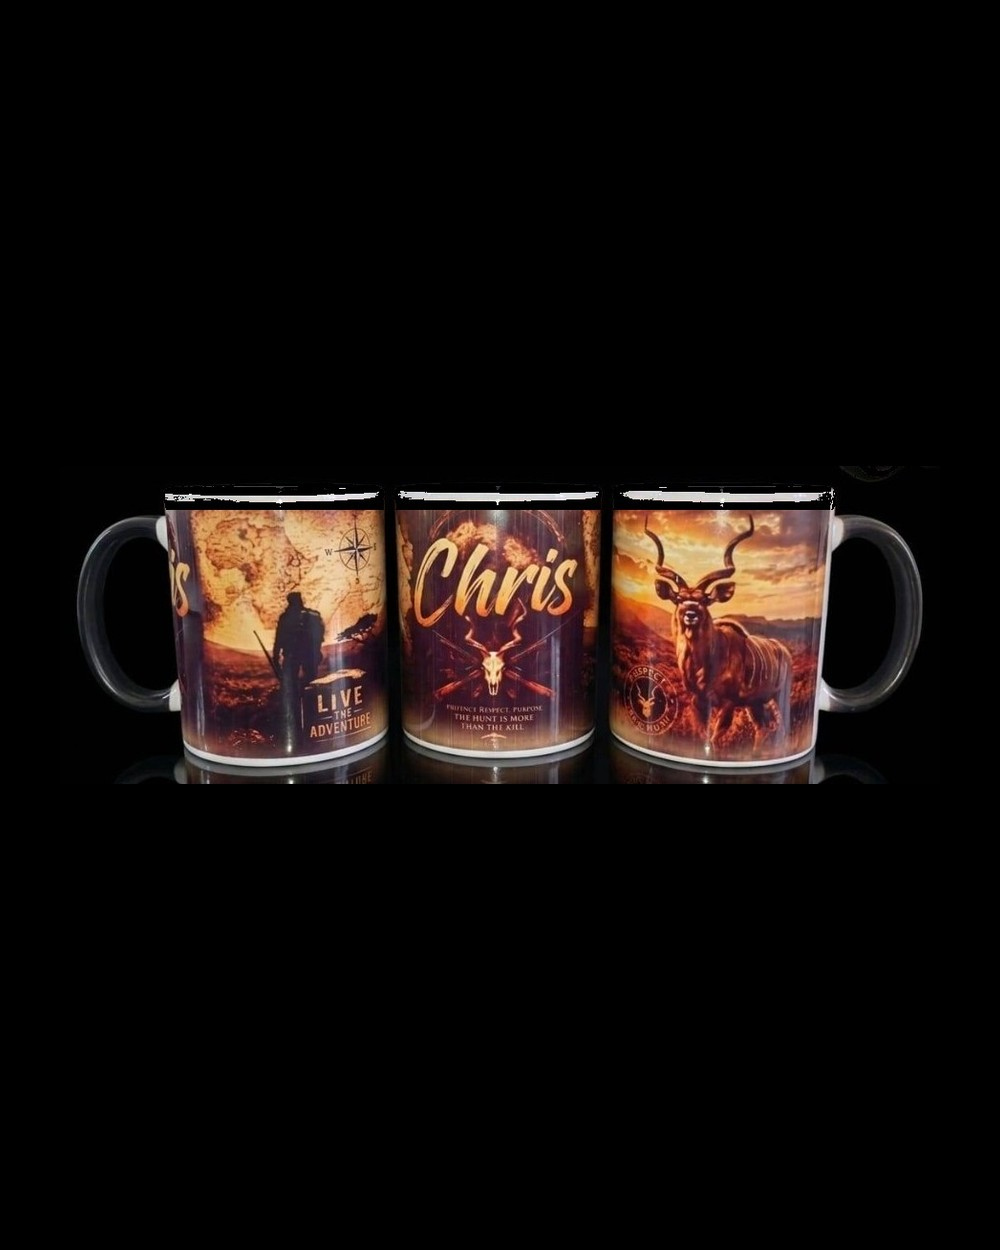
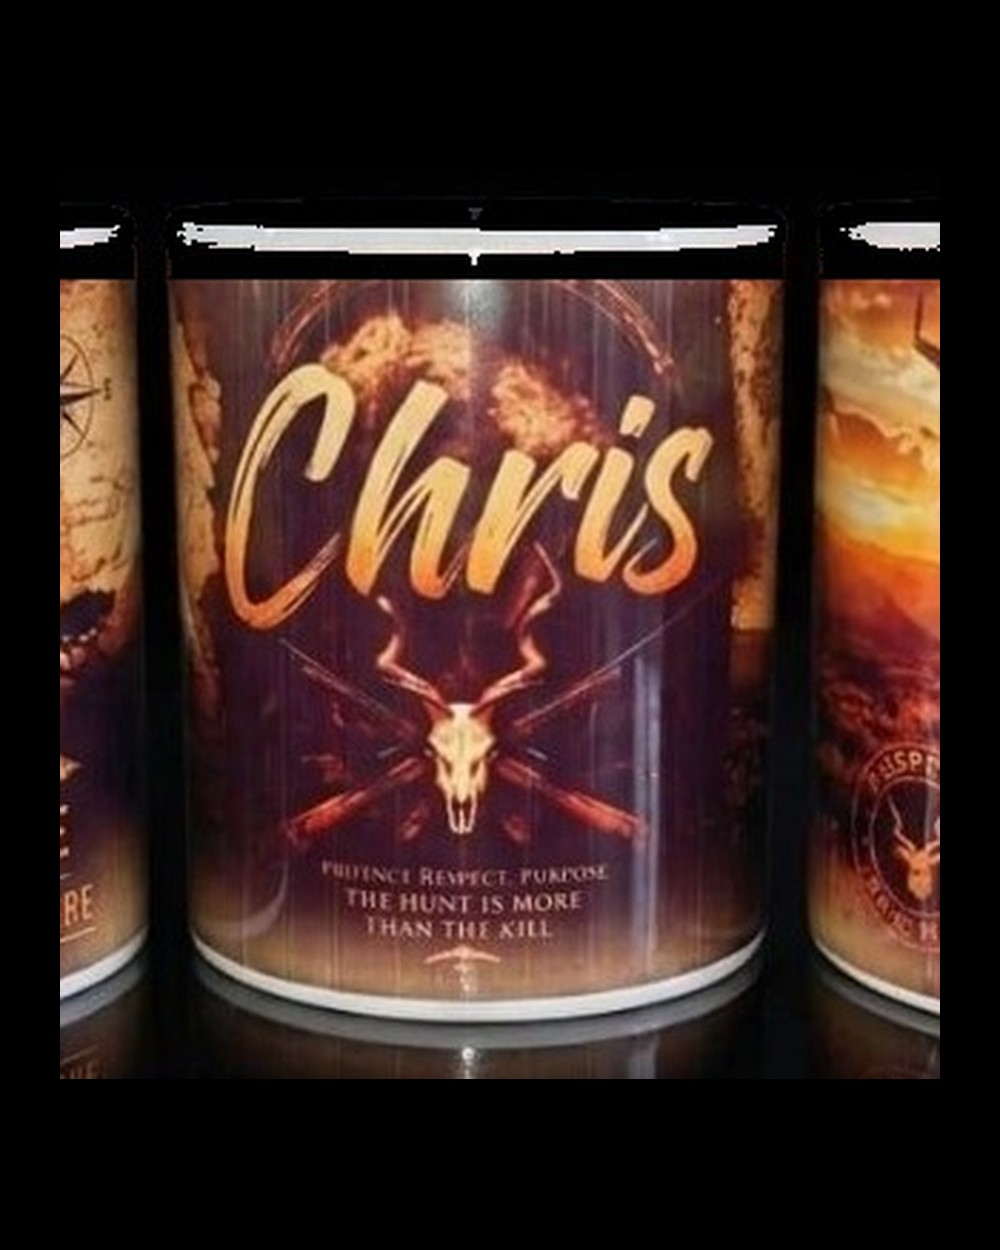
Reframe coffee mug photos to fill the product frame
Wide multi-mug marketing crops were normalized to thin horizontal strips
on the 4:5 shop canvas. Re-crop from the original catalogue sources to a
single mug view, trim reflections and scan-line noise, then re-normalize.

Add scripts/reframe-coffee-mugs.py for regeneration. Mug+coaster set
photos are left unchanged.

diff --git a/scripts/reframe-coffee-mugs.py b/scripts/reframe-coffee-mugs.py
@@ -1,0 +1,243 @@
+"""Reframe coffee mug photos so mugs fill the shop canvas instead of thin strips."""
+
+from __future__ import annotations
+
+import subprocess
+from io import BytesIO
+from pathlib import Path
+
+from PIL import Image
+
+ROOT = Path(__file__).resolve().parents[1] / "public" / "products" / "coffee-mugs"
+SOURCE_COMMIT = "a2fe798"
+CANVAS = (1000, 1250)
+MARGIN = 0.06
+INK = 28
+MIN_PAD = 20
+
+# Mug+coaster set photos are already tall enough — only reframe the wide mug rows.
+SKIP = {
+    "chris-adventure-set.jpg",
+    "gideon-mug-coaster.jpg",
+    "hannie-mug-coaster.jpg",
+    "landie-mug-coaster.jpg",
+}
+
+# Prefer a specific third of wide marketing crops (0=left, 1=centre, 2=right).
+PREFERRED_THIRD: dict[str, int] = {
+    "worthy-bow-mugs.jpg": 2,  # "She is Worthy" text
+    "juf-anneke-mugs.jpg": 0,  # "Juf Anneke" name
+    "kobus-mugs.jpg": 1,
+    "manzelle-mugs.jpg": 1,
+    "secret-mike-mugs.jpg": 1,
+    "apex-wellness-mugs.jpg": 1,
+    "chris-hunt-mugs.jpg": 1,
+}
+
+
+def is_ink(pixel: tuple[int, int, int]) -> bool:
+    return pixel[0] <= INK and pixel[1] <= INK and pixel[2] <= INK
+
+
+def git_source(name: str) -> Image.Image:
+    result = subprocess.run(
+        ["git", "show", f"{SOURCE_COMMIT}:public/products/coffee-mugs/{name}"],
+        capture_output=True,
+        check=True,
+    )
+    return Image.open(BytesIO(result.stdout)).convert("RGB")
+
+
+def mug_row_box(image: Image.Image) -> tuple[int, int, int, int]:
+    """Find the main horizontal mug band, ignoring noisy top rows and reflections."""
+    width, height = image.size
+    pixels = image.load()
+    min_run = max(80, int(width * 0.12))
+    rows: list[tuple[int, int, int]] = []
+
+    for y in range(int(height * 0.05), int(height * 0.92)):
+        run = best = 0
+        start = best_start = best_end = 0
+        for x in range(int(width * 0.02), int(width * 0.98)):
+            pixel = pixels[x, y]
+            if not is_ink(pixel):
+                if run == 0:
+                    start = x
+                run += 1
+                if run > best:
+                    best = run
+                    best_start = start
+                    best_end = x
+            else:
+                run = 0
+        if best < min_run:
+            continue
+        # Ignore isolated logo / smoke rows near the top corners.
+        if y < height * 0.35 and (best_end < width * 0.34 or best_start > width * 0.66):
+            continue
+        rows.append((y, best_start, best_end))
+
+    if not rows:
+        raise RuntimeError("No mug row detected")
+
+    left = min(row[1] for row in rows)
+    right = max(row[2] for row in rows)
+    top = rows[0][0]
+    bottom = rows[-1][0]
+
+    pad = MIN_PAD
+    return (
+        max(0, left - pad),
+        max(0, top - pad),
+        min(width, right + pad + 1),
+        min(height, bottom + pad + 1),
+    )
+
+
+def trim_reflection(image: Image.Image, box: tuple[int, int, int, int]) -> tuple[int, int, int, int]:
+    """Drop the mirror reflection under a mug on glossy black."""
+    left, top, right, bottom = box
+    pixels = image.load()
+    widths: list[tuple[int, int]] = []
+    for y in range(top, bottom + 1):
+        run = 0
+        for x in range(left, right + 1):
+            if not is_ink(pixels[x, y]):
+                run += 1
+        widths.append((y, run))
+
+    if len(widths) < 8:
+        return box
+
+    body_width = sorted(width for _, width in widths[: len(widths) // 2])[
+        len(widths) // 4
+    ]
+    cutoff = bottom
+    for y, row_width in widths:
+        if y > top + 40 and row_width > body_width * 1.45:
+            cutoff = max(top + 20, y - 8)
+            break
+
+    return left, top, right, min(bottom, cutoff)
+
+
+def trim_glitch_top(image: Image.Image, box: tuple[int, int, int, int]) -> tuple[int, int, int, int]:
+    """Drop corrupted scan-line noise above the mug (homosapien source)."""
+    left, top, right, bottom = box
+    pixels = image.load()
+    clean_top = top
+    target_width = int((right - left) * 0.45)
+    for y in range(top, min(top + 80, bottom)):
+        row = [x for x in range(left, right + 1) if not is_ink(pixels[x, y])]
+        if len(row) >= target_width:
+            clean_top = max(top, y - 6)
+            break
+        clean_top = y + 1
+    return left, clean_top, right, bottom
+
+
+def trim_horizontal_padding(
+    image: Image.Image, box: tuple[int, int, int, int]
+) -> tuple[int, int, int, int]:
+    """Remove dead black columns inside a mug crop."""
+    left, top, right, bottom = box
+    pixels = image.load()
+    active: list[int] = []
+    y0 = top + (bottom - top) // 6
+    y1 = bottom - (bottom - top) // 8
+    for x in range(left, right + 1):
+        count = sum(1 for y in range(y0, y1 + 1) if not is_ink(pixels[x, y]))
+        if count > (y1 - y0 + 1) * 0.08:
+            active.append(x)
+    if not active:
+        return box
+    pad = 10
+    return (
+        max(0, active[0] - pad),
+        top,
+        min(image.size[0], active[-1] + pad + 1),
+        bottom,
+    )
+
+
+def pick_single_mug(image: Image.Image, box: tuple[int, int, int, int], third: int) -> tuple[int, int, int, int]:
+    left, top, right, bottom = box
+    crop_w = right - left
+    crop_h = bottom - top
+    if crop_w / max(crop_h, 1) < 1.55:
+        return box
+
+    third_w = crop_w // 3
+    idx = max(0, min(2, third))
+    mug_left = left + idx * third_w
+    mug_right = mug_left + third_w if idx < 2 else right
+    return mug_left, top, mug_right, bottom
+
+
+def normalize(image: Image.Image) -> Image.Image:
+    width, height = image.size
+    pixels = image.load()
+    min_x, min_y, max_x, max_y = width, height, 0, 0
+    for y in range(height):
+        for x in range(width):
+            if is_ink(pixels[x, y]):
+                continue
+            min_x = min(min_x, x)
+            min_y = min(min_y, y)
+            max_x = max(max_x, x)
+            max_y = max(max_y, y)
+    pad = max(MIN_PAD, int(max(width, height) * 0.04))
+    cropped = image.crop(
+        (
+            max(0, min_x - pad),
+            max(0, min_y - pad),
+            min(width, max_x + pad + 1),
+            min(height, max_y + pad + 1),
+        )
+    )
+    if cropped.height < 180:
+        raise RuntimeError(f"Content too short ({cropped.height}px)")
+
+    canvas = Image.new("RGB", CANVAS, (0, 0, 0))
+    max_w = int(CANVAS[0] * (1 - MARGIN * 2))
+    max_h = int(CANVAS[1] * (1 - MARGIN * 2))
+    scale = min(max_w / cropped.width, max_h / cropped.height)
+    resized = cropped.resize(
+        (max(1, int(cropped.width * scale)), max(1, int(cropped.height * scale))),
+        Image.Resampling.LANCZOS,
+    )
+    offset = ((CANVAS[0] - resized.width) // 2, (CANVAS[1] - resized.height) // 2)
+    canvas.paste(resized, offset)
+    return canvas
+
+
+def reframe(name: str) -> Image.Image:
+    source = git_source(name)
+    box = mug_row_box(source)
+    if name == "homosapien-mug.jpg":
+        box = trim_glitch_top(source, box)
+        left, top, right, bottom = box
+        box = (left, top, right, min(bottom, 238))
+    third = PREFERRED_THIRD.get(name, 1)
+    box = pick_single_mug(source, box, third)
+    if name != "homosapien-mug.jpg":
+        box = trim_reflection(source, box)
+    box = trim_horizontal_padding(source, box)
+    return normalize(source.crop(box))
+
+
+def main() -> None:
+    for path in sorted(ROOT.glob("*.jpg")):
+        if path.name in SKIP:
+            print(f"skip {path.name}")
+            continue
+        try:
+            output = reframe(path.name)
+            output.save(path, quality=90, optimize=True)
+            print(f"ok  {path.name}")
+        except Exception as error:
+            print(f"err {path.name}: {error}")
+
+
+if __name__ == "__main__":
+    main()
